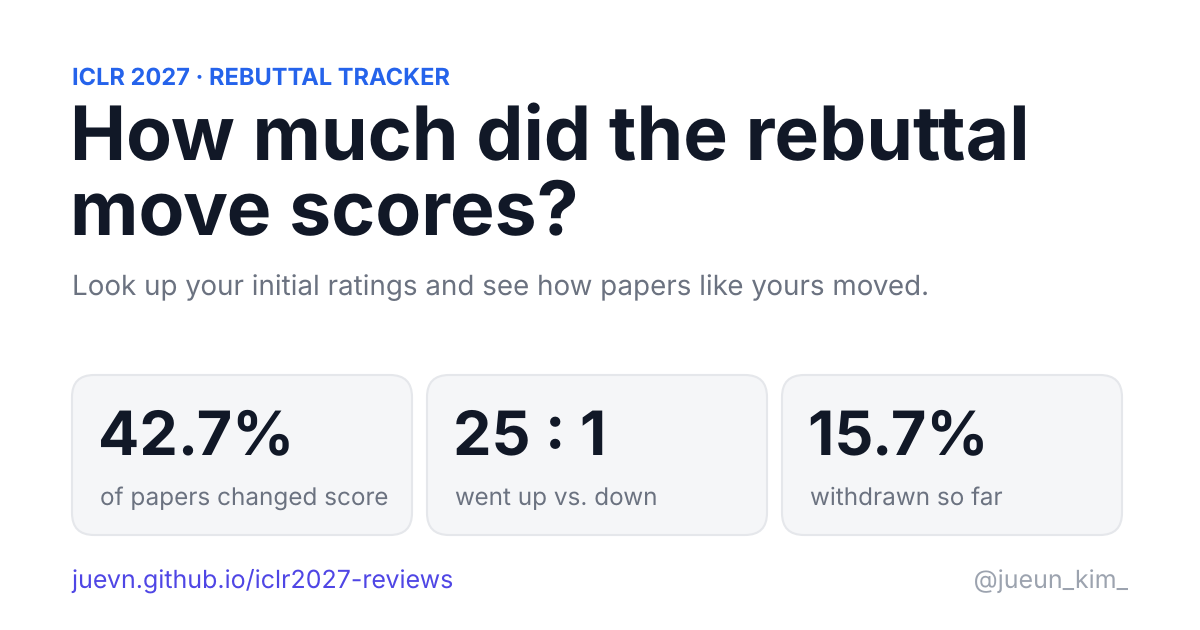
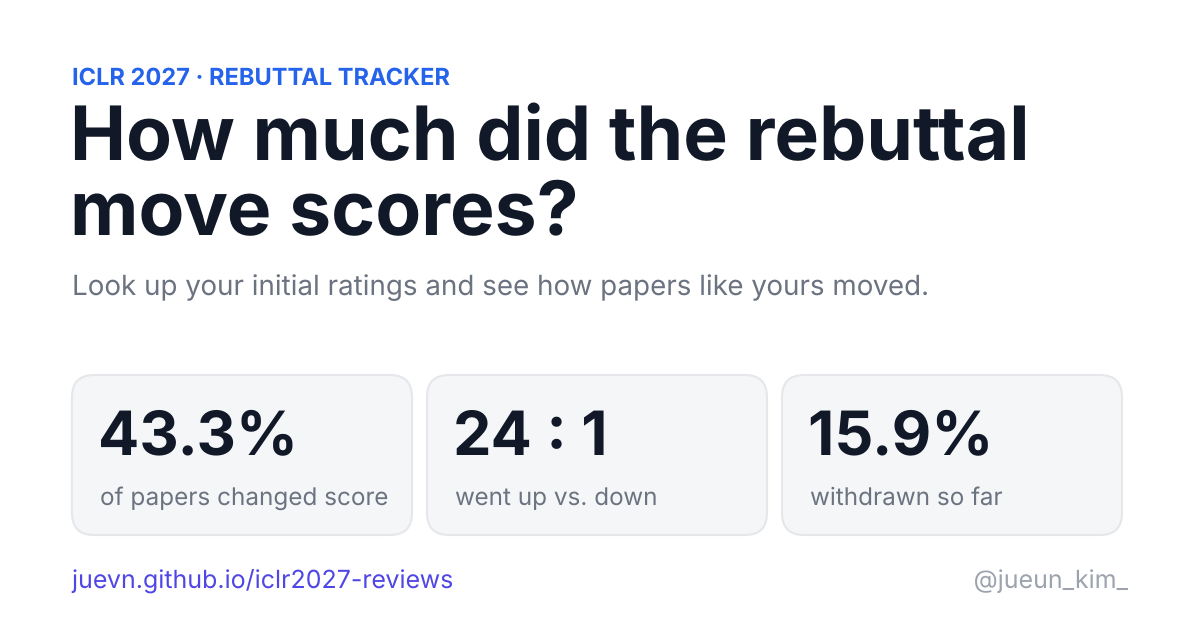
Update to 2026-11-24T04:02:14Z
Claude-Session: https://claude.ai/code/session_01TcxDZfia7MrzcEvY8LDLi9

diff --git a/data.js b/data.js
@@ -5,85 +5,85 @@ window.ICLR_DATA = {
   venue: "ICLR 2027",
   scale: [1,4],
   baseline: {"at":"2026-11-06T13:54:47Z","source":"https://shiqiangw.github.io/iclr-2027-scores/","by":"shiqiangw"},
-  updated: "2026-11-23T01:15:46Z",
+  updated: "2026-11-24T04:02:14Z",
   // All submissions, incl. withdrawn and desk-rejected (the base acceptance rates use).
   submissions: 42789,
   discussionEnds: "2026-11-18",
   decisions: "2026-12-16",
   combos: {
-    "1":[2,0,0,0,0,0,0,0],"2":[2,0,1,0,0,0,0,0],"11":[27,9,0,13,2,0,0,6],"21":[73,16,0,30,5,0,0,7],"22":[104,9,0,54,14,1,1,21],"31":[24,1,0,13,4,0,1,6],
-    "32":[75,0,1,32,12,1,0,11],"33":[20,0,0,14,3,0,0,3],"41":[1,0,0,1,1,0,0,1],"42":[5,0,0,3,1,0,0,1],"43":[2,0,0,1,0,0,0,0],"44":[1,0,0,1,0,0,0,0],
-    "111":[764,292,10,459,20,0,0,27],"211":[3062,1145,29,1878,209,23,0,272],"221":[6602,2140,71,4374,1192,55,1,1610],"222":[7463,1315,84,6043,2501,60,17,3540],"311":[651,166,12,469,93,30,2,84],"321":[3548,488,42,3005,1193,82,6,1554],
-    "322":[7667,194,118,7327,3691,123,22,5005],"331":[675,7,8,657,319,15,4,415],"332":[3733,10,48,3661,1964,76,4,2248],"333":[773,1,9,759,199,0,0,242],"411":[30,4,1,25,6,1,0,8],"421":[215,11,1,203,95,12,0,107],
-    "422":[418,2,2,414,213,14,8,288],"431":[79,0,1,76,31,1,0,49],"432":[515,1,7,505,289,5,2,325],"433":[198,0,2,193,53,1,0,61],"441":[6,0,0,6,4,0,1,5],"442":[40,0,0,39,24,0,1,27],
-    "443":[28,0,0,28,5,1,0,4],"444":[2,0,0,2,0,0,0,0],"1111":[29,8,1,20,1,0,0,1],"2111":[107,32,0,73,9,1,0,8],"2211":[245,88,2,155,18,0,0,26],"2221":[428,118,7,297,95,2,2,174],
-    "2222":[455,111,9,334,146,1,2,233],"3111":[17,7,0,10,1,0,1,1],"3211":[111,26,1,83,18,7,0,20],"3221":[336,53,3,280,133,10,0,190],"3222":[565,44,8,510,307,6,4,468],"3311":[28,5,0,23,8,0,1,10],
-    "3321":[133,5,2,126,70,1,1,114],"3322":[435,2,9,416,262,8,2,374],"3331":[27,0,0,27,10,2,0,14],"3332":[156,0,2,153,93,1,0,108],"3333":[17,0,0,17,3,1,0,3],"4111":[1,1,0,0,0,0,0,0],
-    "4211":[8,0,0,8,2,0,0,4],"4221":[25,3,1,21,11,1,0,20],"4222":[40,0,0,40,25,1,0,34],"4311":[1,0,0,1,0,0,0,0],"4321":[28,0,0,28,16,3,0,16],"4322":[51,0,1,50,28,1,0,37],
+    "1":[2,0,0,0,0,0,0,0],"2":[2,0,1,0,0,0,0,0],"11":[27,9,0,13,2,0,0,6],"21":[73,16,0,30,5,0,0,7],"22":[104,10,0,54,14,1,1,21],"31":[24,1,0,13,4,0,1,6],
+    "32":[75,0,1,32,13,1,0,12],"33":[20,0,0,14,3,0,0,3],"41":[1,0,0,1,1,0,0,1],"42":[5,0,0,3,1,0,0,1],"43":[2,0,0,1,0,0,0,0],"44":[1,0,0,1,0,0,0,0],
+    "111":[764,297,10,454,20,0,0,27],"211":[3062,1157,29,1866,215,23,0,278],"221":[6602,2162,71,4352,1215,58,1,1643],"222":[7463,1328,84,6030,2530,62,17,3598],"311":[651,167,12,468,93,33,2,83],"321":[3548,491,42,3002,1201,85,10,1572],
+    "322":[7667,197,118,7324,3736,136,22,5087],"331":[675,7,8,657,323,15,5,422],"332":[3733,10,48,3661,1990,74,4,2291],"333":[773,1,9,759,201,0,0,244],"411":[30,4,1,25,6,1,0,8],"421":[215,11,1,203,95,12,0,107],
+    "422":[418,2,2,414,216,16,8,289],"431":[79,0,1,76,31,1,0,50],"432":[515,1,7,505,292,6,2,330],"433":[198,0,2,193,54,1,0,62],"441":[6,0,0,6,4,0,1,5],"442":[40,0,0,39,24,0,1,27],
+    "443":[28,0,0,28,5,1,0,4],"444":[2,0,0,2,0,0,0,0],"1111":[29,8,1,20,1,0,0,1],"2111":[107,34,0,72,9,1,0,8],"2211":[245,89,2,154,19,0,0,27],"2221":[428,119,7,296,94,2,2,174],
+    "2222":[455,112,9,333,148,1,2,236],"3111":[17,7,0,10,1,0,1,1],"3211":[111,26,1,83,19,7,0,22],"3221":[336,54,3,279,135,12,0,191],"3222":[565,45,8,509,308,7,4,472],"3311":[28,5,0,23,8,0,1,10],
+    "3321":[133,5,2,126,69,2,2,112],"3322":[435,2,9,416,263,8,2,378],"3331":[27,0,0,27,10,2,0,15],"3332":[156,0,2,153,93,1,0,108],"3333":[17,0,0,17,3,1,0,3],"4111":[1,1,0,0,0,0,0,0],
+    "4211":[8,0,0,8,2,0,0,4],"4221":[25,3,1,21,11,1,0,20],"4222":[40,0,0,40,27,1,1,36],"4311":[1,0,0,1,0,0,0,0],"4321":[28,0,0,28,16,2,1,17],"4322":[51,0,1,50,29,1,0,38],
     "4331":[8,0,0,8,4,0,0,5],"4332":[38,0,0,38,23,1,1,21],"4333":[7,0,1,6,0,0,0,0],"4421":[1,0,0,1,1,0,0,2],"4422":[3,0,0,3,2,0,0,3],"4431":[2,0,0,2,2,0,0,4],
     "4432":[3,0,0,3,0,0,0,0],"4433":[4,0,0,4,0,0,0,0],"4443":[1,0,0,1,0,0,0,0],"11111":[4,1,0,3,0,0,0,0],"21111":[6,3,0,3,0,0,0,0],"22111":[14,4,0,10,4,0,0,4],
-    "22211":[22,9,1,12,1,0,0,1],"22221":[32,9,1,22,5,0,0,12],"22222":[19,3,0,16,9,0,0,15],"32111":[8,2,0,6,1,1,0,1],"32211":[21,5,0,16,6,1,2,6],"32221":[29,9,0,20,14,0,0,22],
-    "32222":[37,4,0,33,15,1,0,22],"33211":[2,0,0,2,0,1,0,-1],"33221":[27,0,1,26,15,0,0,36],"33222":[46,2,0,44,28,0,2,51],"33311":[2,0,0,2,2,0,0,2],"33321":[4,0,0,4,2,0,0,3],
+    "22211":[22,9,1,12,1,0,0,1],"22221":[32,9,1,22,6,0,0,13],"22222":[19,3,0,16,9,0,0,15],"32111":[8,2,0,6,1,1,0,1],"32211":[21,5,0,16,6,2,2,5],"32221":[29,9,0,20,14,0,0,22],
+    "32222":[37,4,0,33,15,1,0,22],"33211":[2,0,0,2,0,1,0,-1],"33221":[27,0,1,26,16,0,0,37],"33222":[46,2,0,44,28,0,2,51],"33311":[2,0,0,2,2,0,0,2],"33321":[4,0,0,4,2,0,0,3],
     "33322":[14,0,0,14,8,0,0,12],"33331":[2,0,0,2,1,0,0,1],"33332":[7,0,0,7,4,0,0,6],"33333":[2,0,0,2,0,0,0,0],"42221":[3,0,0,3,1,1,0,3],"42222":[1,0,0,1,0,0,0,0],
     "43211":[1,0,0,1,1,0,0,2],"43221":[1,0,0,1,1,0,0,2],"43222":[7,0,0,7,5,0,1,8],"43322":[2,0,0,2,1,0,0,1],"43331":[1,0,0,1,1,0,0,1],"43332":[4,0,0,4,3,0,0,6],
     "43333":[1,0,0,1,0,0,0,0],"44311":[1,0,0,1,0,0,0,0],"44322":[3,0,0,3,1,0,0,2],"44332":[3,0,0,3,3,0,0,4],"211111":[1,1,0,0,0,0,0,0],"221111":[1,1,0,0,0,0,0,0],
     "222211":[2,1,0,1,0,0,0,0],"222221":[2,1,0,1,1,0,0,1],"322211":[1,0,0,1,1,0,0,4],"322221":[1,0,0,1,0,0,0,0],"322222":[3,0,0,3,1,0,0,1],"332222":[2,0,1,1,0,0,0,0],
-    "333222":[1,0,0,1,1,0,0,1],"432211":[1,0,0,1,1,0,0,1],"433321":[1,0,0,1,1,0,0,1],"2222211":[1,0,0,1,0,0,0,0]
+    "333222":[1,0,0,1,1,0,0,1],"432211":[1,0,0,1,1,0,0,1],"433321":[1,0,0,1,0,0,0,0],"2222211":[1,0,0,1,0,0,0,0]
   },
   // Mean rating now -> number of papers still under review, for ranking a score against today's field.
-  currentMeans: {"n":33698,"h":{"1.00":508,"1.20":4,"1.25":70,"1.33":1759,"1.40":7,"1.50":202,"1.60":22,"1.67":3801,"1.71":1,"1.75":293,"1.80":33,"2.00":6896,"2.17":2,"2.20":45,"2.25":507,"2.33":6830,"2.40":48,"2.50":562,"2.60":41,"2.67":5576,"2.75":438,"2.80":29,"2.83":1,"3.00":4538,"3.20":6,"3.25":87,"3.33":1115,"3.40":5,"3.50":22,"3.60":2,"3.67":208,"3.75":2,"4.00":38}},
+  currentMeans: {"n":33631,"h":{"1.00":503,"1.20":4,"1.25":69,"1.33":1747,"1.40":7,"1.50":200,"1.60":22,"1.67":3761,"1.71":1,"1.75":294,"1.80":31,"2.00":6862,"2.17":2,"2.20":44,"2.25":505,"2.33":6767,"2.40":49,"2.50":558,"2.60":41,"2.67":5580,"2.75":440,"2.80":29,"3.00":4603,"3.20":6,"3.25":88,"3.33":1131,"3.40":5,"3.50":22,"3.60":2,"3.67":218,"3.75":2,"4.00":38}},
   // Review-level moves. exact: the pairing of initial and current ratings is unique.
   // inferred: more than one pairing fits, smallest-change one used.
-  reviews: {"analyzed":103078,"modified":42439,"changed":17537,"exact":14510,"inferred":3027,"initial":{"1":16404,"2":58845,"3":25988,"4":1841},"moves":{"2>3":12220,"1>2":1798,"3>4":1001,"2>4":919,"1>3":880,"2>1":345,"3>2":258,"1>4":47,"4>3":33,"3>1":25,"4>2":9,"4>1":2}},
+  reviews: {"analyzed":102877,"modified":42859,"changed":17845,"exact":14725,"inferred":3120,"initial":{"1":16331,"2":58726,"3":25979,"4":1841},"moves":{"2>3":12424,"1>2":1816,"3>4":1008,"2>4":937,"1>3":902,"2>1":356,"3>2":279,"1>4":49,"4>3":35,"3>1":27,"4>2":10,"4>1":2}},
   // dest: initial ratings -> current ratings of the papers that changed (same number of reviews), with counts.
   dest: {
     "11":{"31":1,"33":1},
     "21":{"22":3,"31":1,"42":1},
     "22":{"21":1,"31":1,"32":7,"33":6,"43":1},
     "31":{"22":1,"32":2,"33":1,"42":1},
-    "32":{"31":1,"33":12},
+    "32":{"31":1,"33":13},
     "33":{"43":3},
     "41":{"42":1},
     "42":{"43":1},
     "111":{"211":13,"221":6,"311":1},
-    "211":{"111":23,"221":119,"222":27,"311":22,"321":27,"322":8,"331":3,"332":1,"333":1,"422":1},
-    "221":{"111":1,"211":54,"222":488,"311":1,"321":348,"322":203,"331":50,"332":71,"333":14,"421":6,"422":4,"431":4,"432":1,"433":3},
-    "222":{"211":2,"221":58,"321":17,"322":1624,"331":7,"332":628,"333":185,"422":22,"431":1,"432":22,"433":12},
-    "311":{"111":4,"211":26,"221":2,"222":5,"321":65,"322":14,"331":2,"332":1,"333":1,"411":1,"421":4},
-    "321":{"211":3,"221":60,"222":6,"311":19,"322":514,"331":292,"332":234,"333":56,"421":36,"422":12,"431":20,"432":19,"433":9,"442":1},
-    "322":{"221":7,"222":65,"311":1,"321":50,"331":20,"332":2247,"333":971,"421":2,"422":138,"431":2,"432":199,"433":122,"441":1,"442":4,"443":6,"444":1},
-    "331":{"221":1,"311":2,"321":12,"322":4,"332":187,"333":59,"422":1,"431":32,"432":24,"433":10,"441":4,"443":1,"444":1},
-    "332":{"222":1,"321":7,"322":35,"331":33,"333":1417,"422":1,"431":3,"432":228,"433":260,"442":14,"443":41,"444":4},
-    "333":{"433":165,"443":25,"444":9},
+    "211":{"111":23,"221":123,"222":27,"311":24,"321":27,"322":8,"331":3,"332":1,"333":1,"422":1},
+    "221":{"111":1,"211":57,"222":493,"311":1,"321":361,"322":204,"331":47,"332":77,"333":15,"421":6,"422":4,"431":4,"432":1,"433":3},
+    "222":{"211":2,"221":60,"321":17,"322":1632,"331":7,"332":643,"333":192,"422":19,"431":1,"432":23,"433":13},
+    "311":{"111":4,"211":29,"221":2,"222":5,"321":64,"322":14,"331":2,"332":2,"333":1,"411":1,"421":4},
+    "321":{"211":3,"221":62,"222":10,"311":20,"322":512,"331":291,"332":242,"333":57,"421":36,"422":12,"431":21,"432":20,"433":9,"442":1},
+    "322":{"221":8,"222":72,"311":1,"321":55,"331":20,"332":2243,"333":1012,"421":2,"422":142,"431":2,"432":197,"433":128,"441":1,"442":4,"443":6,"444":1},
+    "331":{"221":1,"311":2,"321":12,"322":5,"332":189,"333":60,"422":1,"431":33,"432":24,"433":10,"441":3,"443":2,"444":1},
+    "332":{"222":1,"321":8,"322":33,"331":32,"333":1435,"422":1,"431":3,"432":225,"433":266,"442":14,"443":46,"444":4},
+    "333":{"433":167,"443":25,"444":9},
     "411":{"211":1,"421":4,"422":1,"433":1},
     "421":{"211":1,"221":2,"321":9,"332":1,"422":30,"431":40,"432":20,"433":2,"442":2},
-    "422":{"222":1,"322":5,"332":6,"333":1,"421":8,"431":2,"432":129,"433":73,"442":3,"443":7},
-    "431":{"331":1,"432":12,"433":14,"441":2,"442":1,"443":2},
-    "432":{"322":1,"333":1,"422":2,"431":2,"433":218,"441":1,"442":31,"443":38,"444":2},
-    "433":{"332":1,"443":43,"444":10},
+    "422":{"222":2,"322":6,"332":6,"333":1,"421":8,"431":2,"432":131,"433":74,"442":3,"443":7},
+    "431":{"331":1,"432":12,"433":14,"441":1,"442":2,"443":2},
+    "432":{"322":1,"333":1,"422":3,"431":2,"433":220,"441":1,"442":29,"443":41,"444":2},
+    "433":{"332":1,"443":44,"444":10},
     "441":{"432":1,"442":3,"443":1},
     "442":{"433":1,"443":21,"444":3},
     "443":{"433":1,"444":5},
     "1111":{"2111":1},
     "2111":{"1111":1,"2211":8,"3111":1},
-    "2211":{"2221":8,"2222":2,"3211":4,"3221":2,"3222":1,"3321":1},
-    "2221":{"2211":2,"2222":21,"3211":2,"3221":22,"3222":19,"3321":12,"3322":10,"3331":4,"3332":3,"3333":2,"4222":1,"4421":1},
-    "2222":{"2221":1,"3221":2,"3222":77,"3321":3,"3322":43,"3332":15,"3333":1,"4222":4,"4322":2,"4333":1},
+    "2211":{"2221":9,"2222":2,"3211":4,"3221":2,"3222":1,"3321":1},
+    "2221":{"2211":2,"2222":20,"3211":2,"3221":21,"3222":20,"3321":12,"3322":10,"3331":4,"3332":3,"3333":2,"4222":1,"4421":1},
+    "2222":{"2221":1,"3221":2,"3222":79,"3321":3,"3322":42,"3332":16,"3333":1,"4222":4,"4322":2,"4333":1},
     "3111":{"2211":1,"3211":1},
-    "3211":{"2211":7,"3221":9,"3222":1,"3311":1,"3321":4,"3322":2,"4211":1},
-    "3221":{"2111":1,"2221":8,"3211":1,"3222":43,"3321":40,"3322":24,"3331":7,"3332":9,"3333":3,"4221":1,"4222":1,"4321":2,"4331":2,"4432":1},
-    "3222":{"2222":4,"3221":2,"3321":4,"3322":170,"3332":71,"3333":30,"4222":11,"4322":15,"4332":9,"4333":1},
+    "3211":{"2211":7,"3221":10,"3222":1,"3311":1,"3321":3,"3322":3,"4211":1},
+    "3221":{"2111":1,"2221":10,"3211":1,"3222":45,"3321":39,"3322":25,"3331":7,"3332":9,"3333":3,"4221":1,"4222":1,"4321":2,"4331":2,"4432":1},
+    "3222":{"2222":5,"3221":2,"3321":4,"3322":168,"3332":73,"3333":31,"4222":11,"4322":15,"4332":9,"4333":1},
     "3311":{"3221":1,"3321":5,"4311":1,"4321":1,"4411":1},
-    "3321":{"3221":1,"3222":1,"3322":23,"3331":14,"3332":15,"3333":8,"4321":3,"4322":2,"4331":1,"4332":1,"4333":3},
-    "3322":{"3222":5,"3321":3,"3331":2,"3332":152,"3333":58,"4322":9,"4332":24,"4333":15,"4422":1,"4432":2,"4433":1},
-    "3331":{"3321":2,"3332":5,"3333":1,"4332":2,"4333":1,"4431":1},
+    "3321":{"3221":1,"3222":2,"3311":1,"3322":22,"3331":14,"3332":15,"3333":8,"4321":3,"4322":2,"4331":1,"4332":1,"4333":3},
+    "3322":{"3222":5,"3321":3,"3331":2,"3332":151,"3333":60,"4322":8,"4332":25,"4333":15,"4422":1,"4432":2,"4433":1},
+    "3331":{"3321":2,"3332":5,"3333":1,"4332":2,"4333":1,"4441":1},
     "3332":{"3322":1,"3333":69,"4332":11,"4333":9,"4432":1,"4433":3},
     "3333":{"3332":1,"4333":2,"4433":1},
     "4211":{"4311":1,"4322":1},
     "4221":{"3221":1,"4222":2,"4321":4,"4322":2,"4332":1,"4432":2},
-    "4222":{"2222":1,"4322":16,"4332":6,"4333":2,"4422":1},
-    "4321":{"3221":2,"3321":1,"4322":9,"4331":2,"4332":3,"4422":1,"4431":1},
-    "4322":{"3322":1,"3333":1,"4332":18,"4333":8,"4433":1},
+    "4222":{"2222":1,"3322":1,"4322":18,"4332":6,"4333":2,"4422":1},
+    "4321":{"3221":2,"3331":1,"4322":9,"4331":2,"4332":4,"4422":1},
+    "4322":{"3322":1,"3333":1,"4332":19,"4333":8,"4433":1},
     "4331":{"4332":1,"4431":2,"4432":1},
     "4332":{"3321":1,"3333":1,"4333":20,"4432":2,"4433":1},
     "4421":{"4432":1},
@@ -91,14 +91,14 @@ window.ICLR_DATA = {
     "4431":{"4432":1,"4443":1},
     "22111":{"22211":4},
     "22211":{"32211":1},
-    "22221":{"22222":1,"32221":1,"33222":1,"33321":1,"33322":1},
+    "22221":{"22222":1,"32221":2,"33222":1,"33321":1,"33322":1},
     "22222":{"32222":5,"33222":3,"33332":1},
     "32111":{"31111":1,"32221":1},
-    "32211":{"22221":2,"32111":1,"32221":4,"33211":1,"33221":1},
+    "32211":{"22211":1,"22221":2,"32111":1,"32221":4,"33211":1,"33221":1},
     "32221":{"32222":4,"33221":4,"33222":2,"33321":2,"33322":2},
     "32222":{"22221":1,"33222":9,"33322":4,"33332":1,"33333":1},
     "33211":{"33111":1},
-    "33221":{"33222":3,"33321":2,"33322":3,"33332":2,"33333":1,"43221":1,"43332":1,"43333":1,"44431":1},
+    "33221":{"33222":3,"33321":3,"33322":3,"33332":2,"33333":1,"43221":1,"43332":1,"43333":1,"44431":1},
     "33222":{"33321":2,"33322":13,"33332":6,"33333":4,"43322":3,"43333":2},
     "33311":{"33321":2},
     "33321":{"33322":1,"33332":1},
@@ -118,11 +118,10 @@ window.ICLR_DATA = {
     "322211":{"333222":1},
     "322222":{"332222":1},
     "333222":{"333322":1},
-    "432211":{"432221":1},
-    "433321":{"433322":1}
+    "432211":{"432221":1}
   },
   // moveTimes: changed reviews per move, by 3-hour UTC bucket of the review's last edit (a later text-only edit moves it).
-  moveTimes: {"2>3":{"2026-11-06T12":2,"2026-11-06T18":2,"2026-11-07T00":1,"2026-11-07T03":1,"2026-11-08T03":1,"2026-11-08T12":1,"2026-11-09T03":2,"2026-11-09T15":2,"2026-11-09T18":2,"2026-11-09T21":1,"2026-11-10T00":1,"2026-11-10T03":1,"2026-11-10T06":3,"2026-11-10T09":1,"2026-11-10T18":2,"2026-11-10T21":2,"2026-11-11T00":2,"2026-11-11T06":2,"2026-11-11T09":4,"2026-11-11T12":3,"2026-11-11T15":3,"2026-11-11T18":3,"2026-11-11T21":1,"2026-11-12T00":9,"2026-11-12T03":6,"2026-11-12T06":7,"2026-11-12T09":4,"2026-11-12T12":4,"2026-11-12T15":9,"2026-11-12T18":7,"2026-11-12T21":5,"2026-11-13T00":4,"2026-11-13T03":17,"2026-11-13T06":15,"2026-11-13T09":16,"2026-11-13T12":17,"2026-11-13T15":13,"2026-11-13T18":20,"2026-11-13T21":20,"2026-11-14T00":11,"2026-11-14T03":80,"2026-11-14T06":129,"2026-11-14T09":71,"2026-11-14T12":70,"2026-11-14T15":51,"2026-11-14T18":40,"2026-11-14T21":30,"2026-11-15T00":44,"2026-11-15T03":53,"2026-11-15T06":80,"2026-11-15T09":68,"2026-11-15T12":70,"2026-11-15T15":72,"2026-11-15T18":36,"2026-11-15T21":37,"2026-11-16T00":100,"2026-11-16T03":155,"2026-11-16T06":178,"2026-11-16T09":155,"2026-11-16T12":161,"2026-11-16T15":139,"2026-11-16T18":95,"2026-11-16T21":77,"2026-11-17T00":141,"2026-11-17T03":208,"2026-11-17T06":812,"2026-11-17T09":404,"2026-11-17T12":388,"2026-11-17T15":367,"2026-11-17T18":239,"2026-11-17T21":182,"2026-11-18T00":312,"2026-11-18T03":472,"2026-11-18T06":534,"2026-11-18T09":441,"2026-11-18T12":411,"2026-11-18T15":391,"2026-11-18T18":266,"2026-11-18T21":217,"2026-11-19T00":379,"2026-11-19T03":716,"2026-11-19T06":787,"2026-11-19T09":784,"2026-11-19T12":232,"2026-11-19T15":108,"2026-11-19T18":54,"2026-11-19T21":27,"2026-11-20T00":53,"2026-11-20T03":55,"2026-11-20T06":293,"2026-11-20T09":176,"2026-11-20T12":78,"2026-11-20T15":79,"2026-11-20T18":25,"2026-11-20T21":28,"2026-11-21T00":28,"2026-11-21T03":36,"2026-11-21T06":19,"2026-11-21T09":25,"2026-11-21T12":24,"2026-11-21T15":103,"2026-11-21T18":10,"2026-11-21T21":9,"2026-11-22T00":14,"2026-11-22T03":14,"2026-11-22T06":6,"2026-11-22T09":11,"2026-11-22T12":11,"2026-11-22T15":13,"2026-11-22T18":13,"2026-11-22T21":4,"2026-11-23T00":3},"1>2":{"2026-11-06T18":1,"2026-11-07T18":1,"2026-11-08T00":1,"2026-11-09T06":1,"2026-11-10T00":1,"2026-11-10T12":2,"2026-11-10T15":1,"2026-11-10T18":1,"2026-11-11T03":1,"2026-11-11T18":1,"2026-11-12T03":2,"2026-11-12T12":1,"2026-11-12T21":2,"2026-11-13T03":2,"2026-11-13T06":5,"2026-11-13T09":4,"2026-11-13T12":4,"2026-11-13T15":3,"2026-11-13T18":3,"2026-11-13T21":4,"2026-11-14T00":1,"2026-11-14T03":15,"2026-11-14T06":20,"2026-11-14T09":22,"2026-11-14T12":12,"2026-11-14T15":10,"2026-11-14T18":12,"2026-11-14T21":3,"2026-11-15T00":6,"2026-11-15T03":11,"2026-11-15T06":7,"2026-11-15T09":13,"2026-11-15T12":8,"2026-11-15T15":5,"2026-11-15T18":10,"2026-11-15T21":6,"2026-11-16T00":15,"2026-11-16T03":10,"2026-11-16T06":19,"2026-11-16T09":21,"2026-11-16T12":23,"2026-11-16T15":23,"2026-11-16T18":19,"2026-11-16T21":16,"2026-11-17T00":11,"2026-11-17T03":23,"2026-11-17T06":126,"2026-11-17T09":52,"2026-11-17T12":53,"2026-11-17T15":56,"2026-11-17T18":50,"2026-11-17T21":36,"2026-11-18T00":45,"2026-11-18T03":48,"2026-11-18T06":59,"2026-11-18T09":63,"2026-11-18T12":52,"2026-11-18T15":65,"2026-11-18T18":45,"2026-11-18T21":37,"2026-11-19T00":62,"2026-11-19T03":100,"2026-11-19T06":121,"2026-11-19T09":118,"2026-11-19T12":38,"2026-11-19T15":12,"2026-11-19T18":12,"2026-11-19T21":3,"2026-11-20T00":5,"2026-11-20T03":8,"2026-11-20T06":38,"2026-11-20T09":25,"2026-11-20T12":13,"2026-11-20T15":9,"2026-11-20T18":7,"2026-11-20T21":9,"2026-11-21T00":5,"2026-11-21T06":4,"2026-11-21T09":5,"2026-11-21T15":10,"2026-11-21T21":2,"2026-11-22T00":6,"2026-11-22T03":3,"2026-11-22T06":1,"2026-11-22T09":2,"2026-11-22T12":3,"2026-11-22T15":3,"2026-11-22T18":2,"2026-11-22T21":2,"2026-11-23T00":1},"3>4":{"2026-11-06T15":1,"2026-11-07T21":1,"2026-11-08T21":1,"2026-11-09T06":1,"2026-11-10T03":1,"2026-11-10T06":1,"2026-11-10T09":1,"2026-11-10T12":2,"2026-11-11T12":1,"2026-11-11T15":1,"2026-11-11T21":2,"2026-11-12T12":1,"2026-11-12T15":1,"2026-11-12T18":2,"2026-11-12T21":2,"2026-11-13T00":1,"2026-11-13T03":2,"2026-11-13T06":5,"2026-11-13T09":6,"2026-11-13T12":3,"2026-11-13T15":1,"2026-11-13T18":3,"2026-11-13T21":2,"2026-11-14T00":2,"2026-11-14T03":7,"2026-11-14T06":9,"2026-11-14T09":2,"2026-11-14T12":10,"2026-11-14T15":5,"2026-11-14T18":7,"2026-11-15T00":4,"2026-11-15T03":6,"2026-11-15T06":8,"2026-11-15T09":10,"2026-11-15T12":14,"2026-11-15T15":5,"2026-11-15T18":7,"2026-11-15T21":3,"2026-11-16T00":11,"2026-11-16T03":18,"2026-11-16T06":20,"2026-11-16T09":15,"2026-11-16T12":16,"2026-11-16T15":14,"2026-11-16T18":19,"2026-11-16T21":8,"2026-11-17T00":17,"2026-11-17T03":16,"2026-11-17T06":53,"2026-11-17T09":38,"2026-11-17T12":41,"2026-11-17T15":30,"2026-11-17T18":27,"2026-11-17T21":21,"2026-11-18T00":20,"2026-11-18T03":34,"2026-11-18T06":33,"2026-11-18T09":34,"2026-11-18T12":36,"2026-11-18T15":27,"2026-11-18T18":25,"2026-11-18T21":18,"2026-11-19T00":33,"2026-11-19T03":50,"2026-11-19T06":47,"2026-11-19T09":50,"2026-11-19T12":17,"2026-11-19T15":7,"2026-11-19T18":7,"2026-11-19T21":2,"2026-11-20T00":5,"2026-11-20T03":4,"2026-11-20T06":13,"2026-11-20T09":8,"2026-11-20T12":2,"2026-11-20T15":4,"2026-11-20T18":1,"2026-11-20T21":1,"2026-11-21T00":1,"2026-11-21T03":3,"2026-11-21T09":1,"2026-11-21T15":4,"2026-11-22T00":2,"2026-11-22T03":1,"2026-11-22T09":2,"2026-11-22T15":1,"2026-11-22T18":3},"2>4":{"2026-11-07T03":1,"2026-11-08T12":1,"2026-11-08T15":1,"2026-11-09T09":2,"2026-11-09T12":1,"2026-11-10T09":2,"2026-11-10T18":1,"2026-11-11T09":1,"2026-11-11T12":1,"2026-11-12T03":2,"2026-11-12T06":1,"2026-11-12T12":3,"2026-11-12T15":3,"2026-11-12T18":1,"2026-11-12T21":1,"2026-11-13T03":5,"2026-11-13T06":2,"2026-11-13T09":3,"2026-11-13T12":3,"2026-11-13T15":5,"2026-11-13T21":5,"2026-11-14T00":4,"2026-11-14T03":10,"2026-11-14T06":11,"2026-11-14T09":5,"2026-11-14T12":9,"2026-11-14T15":12,"2026-11-14T18":3,"2026-11-14T21":3,"2026-11-15T00":5,"2026-11-15T03":8,"2026-11-15T06":9,"2026-11-15T09":8,"2026-11-15T12":7,"2026-11-15T15":5,"2026-11-15T18":5,"2026-11-15T21":1,"2026-11-16T00":12,"2026-11-16T03":12,"2026-11-16T06":16,"2026-11-16T09":18,"2026-11-16T12":14,"2026-11-16T15":13,"2026-11-16T18":12,"2026-11-16T21":10,"2026-11-17T00":19,"2026-11-17T03":18,"2026-11-17T06":56,"2026-11-17T09":31,"2026-11-17T12":32,"2026-11-17T15":24,"2026-11-17T18":19,"2026-11-17T21":24,"2026-11-18T00":26,"2026-11-18T03":23,"2026-11-18T06":37,"2026-11-18T09":33,"2026-11-18T12":26,"2026-11-18T15":39,"2026-11-18T18":16,"2026-11-18T21":11,"2026-11-19T00":28,"2026-11-19T03":33,"2026-11-19T06":41,"2026-11-19T09":46,"2026-11-19T12":9,"2026-11-19T15":6,"2026-11-19T18":6,"2026-11-19T21":3,"2026-11-20T00":2,"2026-11-20T03":2,"2026-11-20T06":11,"2026-11-20T09":6,"2026-11-20T12":2,"2026-11-20T15":7,"2026-11-20T18":2,"2026-11-21T00":1,"2026-11-21T03":2,"2026-11-21T06":2,"2026-11-21T09":2,"2026-11-21T15":8,"2026-11-22T00":2,"2026-11-22T06":1,"2026-11-22T09":1,"2026-11-22T12":1,"2026-11-22T21":4},"1>3":{"2026-11-12T06":2,"2026-11-12T09":2,"2026-11-12T15":2,"2026-11-12T18":2,"2026-11-12T21":1,"2026-11-13T00":1,"2026-11-13T03":1,"2026-11-13T06":1,"2026-11-13T09":1,"2026-11-13T12":1,"2026-11-13T15":1,"2026-11-13T18":3,"2026-11-13T21":4,"2026-11-14T03":9,"2026-11-14T06":10,"2026-11-14T09":7,"2026-11-14T15":6,"2026-11-14T18":7,"2026-11-14T21":1,"2026-11-15T00":7,"2026-11-15T03":3,"2026-11-15T06":3,"2026-11-15T09":3,"2026-11-15T12":7,"2026-11-15T15":5,"2026-11-15T18":6,"2026-11-15T21":11,"2026-11-16T00":4,"2026-11-16T03":12,"2026-11-16T06":11,"2026-11-16T09":4,"2026-11-16T12":12,"2026-11-16T15":9,"2026-11-16T18":9,"2026-11-16T21":4,"2026-11-17T00":5,"2026-11-17T03":19,"2026-11-17T06":44,"2026-11-17T09":23,"2026-11-17T12":29,"2026-11-17T15":21,"2026-11-17T18":18,"2026-11-17T21":14,"2026-11-18T00":28,"2026-11-18T03":34,"2026-11-18T06":41,"2026-11-18T09":32,"2026-11-18T12":28,"2026-11-18T15":34,"2026-11-18T18":24,"2026-11-18T21":27,"2026-11-19T00":29,"2026-11-19T03":53,"2026-11-19T06":54,"2026-11-19T09":43,"2026-11-19T12":23,"2026-11-19T15":5,"2026-11-19T18":4,"2026-11-19T21":7,"2026-11-20T00":4,"2026-11-20T03":4,"2026-11-20T06":12,"2026-11-20T09":12,"2026-11-20T12":4,"2026-11-20T15":5,"2026-11-20T18":3,"2026-11-20T21":1,"2026-11-21T00":4,"2026-11-21T06":3,"2026-11-21T09":1,"2026-11-21T12":2,"2026-11-21T15":4,"2026-11-21T21":1,"2026-11-22T03":1,"2026-11-22T06":2,"2026-11-22T09":1,"2026-11-22T12":1,"2026-11-22T15":1,"2026-11-22T18":2,"2026-11-23T00":1},"2>1":{"2026-11-06T12":2,"2026-11-06T15":2,"2026-11-06T18":1,"2026-11-07T00":1,"2026-11-07T03":2,"2026-11-07T06":1,"2026-11-08T15":1,"2026-11-09T09":1,"2026-11-10T18":1,"2026-11-11T09":1,"2026-11-12T00":1,"2026-11-12T03":2,"2026-11-12T12":1,"2026-11-13T06":2,"2026-11-13T09":1,"2026-11-13T15":1,"2026-11-13T21":3,"2026-11-14T03":5,"2026-11-14T06":4,"2026-11-14T09":4,"2026-11-14T12":1,"2026-11-14T15":2,"2026-11-14T18":2,"2026-11-15T00":1,"2026-11-15T06":2,"2026-11-15T09":3,"2026-11-15T12":2,"2026-11-15T15":3,"2026-11-15T18":4,"2026-11-16T00":2,"2026-11-16T03":4,"2026-11-16T06":6,"2026-11-16T09":1,"2026-11-16T12":4,"2026-11-16T15":1,"2026-11-16T18":6,"2026-11-16T21":1,"2026-11-17T00":6,"2026-11-17T03":2,"2026-11-17T06":20,"2026-11-17T09":5,"2026-11-17T12":7,"2026-11-17T15":12,"2026-11-17T18":4,"2026-11-17T21":5,"2026-11-18T00":4,"2026-11-18T03":11,"2026-11-18T06":11,"2026-11-18T09":10,"2026-11-18T12":9,"2026-11-18T15":10,"2026-11-18T18":8,"2026-11-18T21":5,"2026-11-19T00":7,"2026-11-19T03":17,"2026-11-19T06":20,"2026-11-19T09":28,"2026-11-19T12":10,"2026-11-19T15":9,"2026-11-19T18":9,"2026-11-19T21":1,"2026-11-20T00":2,"2026-11-20T03":5,"2026-11-20T06":6,"2026-11-20T09":4,"2026-11-20T12":2,"2026-11-20T18":2,"2026-11-20T21":2,"2026-11-21T00":1,"2026-11-21T06":1,"2026-11-21T12":1,"2026-11-21T15":1,"2026-11-22T00":3,"2026-11-22T06":2,"2026-11-22T09":1},"3>2":{"2026-11-06T12":1,"2026-11-06T18":1,"2026-11-07T03":1,"2026-11-08T03":1,"2026-11-08T15":1,"2026-11-09T03":1,"2026-11-09T15":1,"2026-11-11T12":1,"2026-11-13T03":1,"2026-11-14T03":2,"2026-11-14T06":2,"2026-11-14T09":4,"2026-11-14T12":2,"2026-11-14T15":1,"2026-11-14T18":3,"2026-11-15T00":1,"2026-11-15T03":2,"2026-11-15T06":1,"2026-11-15T09":1,"2026-11-15T12":1,"2026-11-15T15":1,"2026-11-15T18":2,"2026-11-16T00":3,"2026-11-16T03":5,"2026-11-16T06":4,"2026-11-16T09":2,"2026-11-16T12":2,"2026-11-16T15":3,"2026-11-16T18":1,"2026-11-16T21":3,"2026-11-17T00":4,"2026-11-17T03":7,"2026-11-17T06":18,"2026-11-17T09":7,"2026-11-17T12":5,"2026-11-17T15":11,"2026-11-17T18":6,"2026-11-17T21":5,"2026-11-18T00":8,"2026-11-18T03":4,"2026-11-18T06":6,"2026-11-18T09":7,"2026-11-18T12":9,"2026-11-18T15":8,"2026-11-18T18":2,"2026-11-19T00":1,"2026-11-19T03":10,"2026-11-19T06":12,"2026-11-19T09":17,"2026-11-19T12":8,"2026-11-19T15":2,"2026-11-19T18":2,"2026-11-20T00":1,"2026-11-20T06":15,"2026-11-20T09":8,"2026-11-20T12":5,"2026-11-20T15":3,"2026-11-20T18":1,"2026-11-21T00":2,"2026-11-21T03":2,"2026-11-21T06":1,"2026-11-21T15":5,"2026-11-22T21":1},"1>4":{"2026-11-13T09":1,"2026-11-13T18":1,"2026-11-14T06":2,"2026-11-15T12":2,"2026-11-16T09":1,"2026-11-16T15":2,"2026-11-16T18":1,"2026-11-16T21":2,"2026-11-17T00":1,"2026-11-17T03":1,"2026-11-17T06":3,"2026-11-17T09":1,"2026-11-17T15":2,"2026-11-17T18":3,"2026-11-17T21":1,"2026-11-18T03":2,"2026-11-18T06":1,"2026-11-18T09":1,"2026-11-18T15":3,"2026-11-18T18":1,"2026-11-18T21":1,"2026-11-19T00":1,"2026-11-19T06":5,"2026-11-19T09":4,"2026-11-20T06":1,"2026-11-20T09":3},"4>3":{"2026-11-07T15":1,"2026-11-11T06":1,"2026-11-13T09":1,"2026-11-16T00":1,"2026-11-16T06":1,"2026-11-17T00":1,"2026-11-17T06":1,"2026-11-17T12":1,"2026-11-17T18":1,"2026-11-18T00":2,"2026-11-18T03":1,"2026-11-18T06":3,"2026-11-18T09":2,"2026-11-18T12":2,"2026-11-18T21":1,"2026-11-19T00":1,"2026-11-19T03":2,"2026-11-19T06":2,"2026-11-19T09":2,"2026-11-19T12":2,"2026-11-19T18":1,"2026-11-20T06":1,"2026-11-20T12":1,"2026-11-21T00":1},"3>1":{"2026-11-09T18":1,"2026-11-14T03":1,"2026-11-15T09":1,"2026-11-15T21":1,"2026-11-16T00":1,"2026-11-16T03":1,"2026-11-16T06":2,"2026-11-16T15":1,"2026-11-16T18":1,"2026-11-17T06":2,"2026-11-17T15":1,"2026-11-18T06":2,"2026-11-18T09":1,"2026-11-18T15":1,"2026-11-19T00":1,"2026-11-19T03":1,"2026-11-19T06":1,"2026-11-19T09":2,"2026-11-19T12":1,"2026-11-19T21":1,"2026-11-21T09":1},"4>2":{"2026-11-16T12":1,"2026-11-17T00":1,"2026-11-17T06":1,"2026-11-17T18":1,"2026-11-18T18":1,"2026-11-19T03":1,"2026-11-19T09":1,"2026-11-20T06":1,"2026-11-22T09":1},"4>1":{"2026-11-14T06":1,"2026-11-19T03":1}},
+  moveTimes: {"2>3":{"2026-11-06T12":2,"2026-11-06T18":2,"2026-11-07T00":1,"2026-11-07T03":1,"2026-11-08T03":1,"2026-11-08T12":1,"2026-11-09T03":2,"2026-11-09T15":2,"2026-11-09T18":2,"2026-11-09T21":1,"2026-11-10T00":1,"2026-11-10T03":1,"2026-11-10T06":3,"2026-11-10T09":1,"2026-11-10T18":2,"2026-11-10T21":2,"2026-11-11T00":2,"2026-11-11T06":2,"2026-11-11T09":4,"2026-11-11T12":3,"2026-11-11T15":3,"2026-11-11T18":3,"2026-11-11T21":1,"2026-11-12T00":9,"2026-11-12T03":6,"2026-11-12T06":7,"2026-11-12T09":4,"2026-11-12T12":4,"2026-11-12T15":9,"2026-11-12T18":7,"2026-11-12T21":5,"2026-11-13T00":4,"2026-11-13T03":17,"2026-11-13T06":14,"2026-11-13T09":17,"2026-11-13T12":16,"2026-11-13T15":13,"2026-11-13T18":20,"2026-11-13T21":20,"2026-11-14T00":11,"2026-11-14T03":79,"2026-11-14T06":128,"2026-11-14T09":70,"2026-11-14T12":68,"2026-11-14T15":50,"2026-11-14T18":39,"2026-11-14T21":29,"2026-11-15T00":44,"2026-11-15T03":53,"2026-11-15T06":80,"2026-11-15T09":68,"2026-11-15T12":70,"2026-11-15T15":72,"2026-11-15T18":35,"2026-11-15T21":37,"2026-11-16T00":101,"2026-11-16T03":156,"2026-11-16T06":178,"2026-11-16T09":155,"2026-11-16T12":161,"2026-11-16T15":140,"2026-11-16T18":93,"2026-11-16T21":77,"2026-11-17T00":142,"2026-11-17T03":206,"2026-11-17T06":812,"2026-11-17T09":403,"2026-11-17T12":388,"2026-11-17T15":368,"2026-11-17T18":238,"2026-11-17T21":183,"2026-11-18T00":313,"2026-11-18T03":473,"2026-11-18T06":534,"2026-11-18T09":439,"2026-11-18T12":412,"2026-11-18T15":390,"2026-11-18T18":263,"2026-11-18T21":214,"2026-11-19T00":380,"2026-11-19T03":714,"2026-11-19T06":785,"2026-11-19T09":785,"2026-11-19T12":232,"2026-11-19T15":108,"2026-11-19T18":54,"2026-11-19T21":27,"2026-11-20T00":53,"2026-11-20T03":54,"2026-11-20T06":292,"2026-11-20T09":177,"2026-11-20T12":78,"2026-11-20T15":79,"2026-11-20T18":25,"2026-11-20T21":28,"2026-11-21T00":28,"2026-11-21T03":35,"2026-11-21T06":19,"2026-11-21T09":25,"2026-11-21T12":24,"2026-11-21T15":104,"2026-11-21T18":10,"2026-11-21T21":9,"2026-11-22T00":14,"2026-11-22T03":14,"2026-11-22T06":6,"2026-11-22T09":10,"2026-11-22T12":11,"2026-11-22T15":11,"2026-11-22T18":13,"2026-11-22T21":4,"2026-11-23T00":14,"2026-11-23T03":15,"2026-11-23T06":23,"2026-11-23T09":21,"2026-11-23T12":23,"2026-11-23T15":36,"2026-11-23T18":16,"2026-11-23T21":14,"2026-11-24T00":46,"2026-11-24T03":21},"1>2":{"2026-11-06T18":1,"2026-11-07T18":1,"2026-11-08T00":1,"2026-11-09T06":1,"2026-11-10T00":1,"2026-11-10T12":2,"2026-11-10T15":1,"2026-11-10T18":1,"2026-11-11T03":1,"2026-11-11T18":1,"2026-11-12T03":2,"2026-11-12T12":1,"2026-11-12T21":2,"2026-11-13T03":2,"2026-11-13T06":5,"2026-11-13T09":4,"2026-11-13T12":4,"2026-11-13T15":3,"2026-11-13T18":3,"2026-11-13T21":4,"2026-11-14T00":1,"2026-11-14T03":15,"2026-11-14T06":20,"2026-11-14T09":21,"2026-11-14T12":12,"2026-11-14T15":10,"2026-11-14T18":12,"2026-11-14T21":3,"2026-11-15T00":6,"2026-11-15T03":10,"2026-11-15T06":6,"2026-11-15T09":13,"2026-11-15T12":8,"2026-11-15T15":5,"2026-11-15T18":10,"2026-11-15T21":6,"2026-11-16T00":15,"2026-11-16T03":10,"2026-11-16T06":18,"2026-11-16T09":21,"2026-11-16T12":23,"2026-11-16T15":22,"2026-11-16T18":19,"2026-11-16T21":16,"2026-11-17T00":11,"2026-11-17T03":23,"2026-11-17T06":125,"2026-11-17T09":53,"2026-11-17T12":53,"2026-11-17T15":56,"2026-11-17T18":49,"2026-11-17T21":36,"2026-11-18T00":45,"2026-11-18T03":48,"2026-11-18T06":58,"2026-11-18T09":62,"2026-11-18T12":51,"2026-11-18T15":65,"2026-11-18T18":45,"2026-11-18T21":37,"2026-11-19T00":62,"2026-11-19T03":98,"2026-11-19T06":120,"2026-11-19T09":117,"2026-11-19T12":38,"2026-11-19T15":11,"2026-11-19T18":12,"2026-11-19T21":3,"2026-11-20T00":5,"2026-11-20T03":8,"2026-11-20T06":40,"2026-11-20T09":25,"2026-11-20T12":13,"2026-11-20T15":9,"2026-11-20T18":7,"2026-11-20T21":9,"2026-11-21T00":5,"2026-11-21T06":4,"2026-11-21T09":5,"2026-11-21T15":10,"2026-11-21T21":2,"2026-11-22T00":6,"2026-11-22T03":3,"2026-11-22T06":1,"2026-11-22T09":2,"2026-11-22T12":3,"2026-11-22T15":3,"2026-11-22T18":2,"2026-11-22T21":2,"2026-11-23T00":3,"2026-11-23T06":3,"2026-11-23T09":5,"2026-11-23T12":2,"2026-11-23T15":4,"2026-11-23T18":4,"2026-11-23T21":3,"2026-11-24T00":5,"2026-11-24T03":2},"3>4":{"2026-11-06T15":1,"2026-11-07T21":1,"2026-11-08T21":1,"2026-11-09T06":1,"2026-11-10T03":1,"2026-11-10T06":1,"2026-11-10T09":1,"2026-11-10T12":2,"2026-11-11T12":1,"2026-11-11T15":1,"2026-11-11T21":2,"2026-11-12T12":1,"2026-11-12T15":1,"2026-11-12T18":2,"2026-11-12T21":2,"2026-11-13T00":1,"2026-11-13T03":2,"2026-11-13T06":5,"2026-11-13T09":6,"2026-11-13T12":3,"2026-11-13T15":1,"2026-11-13T18":3,"2026-11-13T21":2,"2026-11-14T00":2,"2026-11-14T03":7,"2026-11-14T06":9,"2026-11-14T09":2,"2026-11-14T12":9,"2026-11-14T15":5,"2026-11-14T18":7,"2026-11-15T00":4,"2026-11-15T03":7,"2026-11-15T06":8,"2026-11-15T09":10,"2026-11-15T12":14,"2026-11-15T15":5,"2026-11-15T18":7,"2026-11-15T21":3,"2026-11-16T00":11,"2026-11-16T03":18,"2026-11-16T06":20,"2026-11-16T09":15,"2026-11-16T12":16,"2026-11-16T15":13,"2026-11-16T18":18,"2026-11-16T21":8,"2026-11-17T00":17,"2026-11-17T03":16,"2026-11-17T06":51,"2026-11-17T09":37,"2026-11-17T12":40,"2026-11-17T15":30,"2026-11-17T18":27,"2026-11-17T21":20,"2026-11-18T00":20,"2026-11-18T03":34,"2026-11-18T06":33,"2026-11-18T09":35,"2026-11-18T12":34,"2026-11-18T15":26,"2026-11-18T18":25,"2026-11-18T21":19,"2026-11-19T00":32,"2026-11-19T03":50,"2026-11-19T06":49,"2026-11-19T09":48,"2026-11-19T12":17,"2026-11-19T15":7,"2026-11-19T18":5,"2026-11-19T21":2,"2026-11-20T00":5,"2026-11-20T03":3,"2026-11-20T06":13,"2026-11-20T09":8,"2026-11-20T12":2,"2026-11-20T15":4,"2026-11-20T18":1,"2026-11-20T21":1,"2026-11-21T00":1,"2026-11-21T03":3,"2026-11-21T09":1,"2026-11-21T15":4,"2026-11-22T00":2,"2026-11-22T09":2,"2026-11-22T15":1,"2026-11-22T18":3,"2026-11-23T00":2,"2026-11-23T06":2,"2026-11-23T09":1,"2026-11-23T12":2,"2026-11-23T15":5,"2026-11-23T18":4,"2026-11-23T21":3,"2026-11-24T00":1},"2>4":{"2026-11-07T03":1,"2026-11-08T12":1,"2026-11-08T15":1,"2026-11-09T09":2,"2026-11-09T12":1,"2026-11-10T09":2,"2026-11-10T18":1,"2026-11-11T09":1,"2026-11-11T12":1,"2026-11-12T03":2,"2026-11-12T06":1,"2026-11-12T12":3,"2026-11-12T15":3,"2026-11-12T18":1,"2026-11-12T21":1,"2026-11-13T03":5,"2026-11-13T06":2,"2026-11-13T09":2,"2026-11-13T12":3,"2026-11-13T15":5,"2026-11-13T21":5,"2026-11-14T00":4,"2026-11-14T03":10,"2026-11-14T06":11,"2026-11-14T09":5,"2026-11-14T12":10,"2026-11-14T15":12,"2026-11-14T18":3,"2026-11-14T21":3,"2026-11-15T00":5,"2026-11-15T03":7,"2026-11-15T06":9,"2026-11-15T09":8,"2026-11-15T12":7,"2026-11-15T15":5,"2026-11-15T18":5,"2026-11-15T21":1,"2026-11-16T00":12,"2026-11-16T03":12,"2026-11-16T06":16,"2026-11-16T09":18,"2026-11-16T12":14,"2026-11-16T15":14,"2026-11-16T18":12,"2026-11-16T21":10,"2026-11-17T00":18,"2026-11-17T03":18,"2026-11-17T06":57,"2026-11-17T09":32,"2026-11-17T12":33,"2026-11-17T15":24,"2026-11-17T18":19,"2026-11-17T21":25,"2026-11-18T00":26,"2026-11-18T03":22,"2026-11-18T06":37,"2026-11-18T09":32,"2026-11-18T12":28,"2026-11-18T15":40,"2026-11-18T18":16,"2026-11-18T21":11,"2026-11-19T00":29,"2026-11-19T03":33,"2026-11-19T06":39,"2026-11-19T09":47,"2026-11-19T12":9,"2026-11-19T15":6,"2026-11-19T18":8,"2026-11-19T21":3,"2026-11-20T00":2,"2026-11-20T03":3,"2026-11-20T06":11,"2026-11-20T09":6,"2026-11-20T12":2,"2026-11-20T15":7,"2026-11-20T18":2,"2026-11-21T00":1,"2026-11-21T03":2,"2026-11-21T06":2,"2026-11-21T09":2,"2026-11-21T15":8,"2026-11-22T00":2,"2026-11-22T06":1,"2026-11-22T09":1,"2026-11-22T12":1,"2026-11-22T21":4,"2026-11-23T03":1,"2026-11-23T06":1,"2026-11-23T09":1,"2026-11-23T15":4,"2026-11-23T18":2,"2026-11-24T00":1,"2026-11-24T03":1},"1>3":{"2026-11-12T06":2,"2026-11-12T09":2,"2026-11-12T15":2,"2026-11-12T18":2,"2026-11-12T21":1,"2026-11-13T00":1,"2026-11-13T03":1,"2026-11-13T06":1,"2026-11-13T09":1,"2026-11-13T12":1,"2026-11-13T15":1,"2026-11-13T18":3,"2026-11-13T21":4,"2026-11-14T03":9,"2026-11-14T06":11,"2026-11-14T09":7,"2026-11-14T15":6,"2026-11-14T18":7,"2026-11-14T21":1,"2026-11-15T00":7,"2026-11-15T03":3,"2026-11-15T06":3,"2026-11-15T09":3,"2026-11-15T12":7,"2026-11-15T15":5,"2026-11-15T18":6,"2026-11-15T21":10,"2026-11-16T00":4,"2026-11-16T03":12,"2026-11-16T06":11,"2026-11-16T09":4,"2026-11-16T12":12,"2026-11-16T15":9,"2026-11-16T18":9,"2026-11-16T21":4,"2026-11-17T00":4,"2026-11-17T03":19,"2026-11-17T06":45,"2026-11-17T09":23,"2026-11-17T12":29,"2026-11-17T15":21,"2026-11-17T18":18,"2026-11-17T21":13,"2026-11-18T00":28,"2026-11-18T03":35,"2026-11-18T06":41,"2026-11-18T09":32,"2026-11-18T12":28,"2026-11-18T15":35,"2026-11-18T18":26,"2026-11-18T21":30,"2026-11-19T00":29,"2026-11-19T03":54,"2026-11-19T06":54,"2026-11-19T09":43,"2026-11-19T12":22,"2026-11-19T15":5,"2026-11-19T18":3,"2026-11-19T21":7,"2026-11-20T00":4,"2026-11-20T03":4,"2026-11-20T06":12,"2026-11-20T09":12,"2026-11-20T12":4,"2026-11-20T15":5,"2026-11-20T18":3,"2026-11-20T21":1,"2026-11-21T00":3,"2026-11-21T06":3,"2026-11-21T09":1,"2026-11-21T12":2,"2026-11-21T15":4,"2026-11-21T21":1,"2026-11-22T03":1,"2026-11-22T06":2,"2026-11-22T09":1,"2026-11-22T12":1,"2026-11-22T15":2,"2026-11-22T18":2,"2026-11-23T00":1,"2026-11-23T03":3,"2026-11-23T06":2,"2026-11-23T09":3,"2026-11-23T15":1,"2026-11-23T18":2,"2026-11-23T21":1,"2026-11-24T00":3,"2026-11-24T03":2},"2>1":{"2026-11-06T12":2,"2026-11-06T15":2,"2026-11-06T18":1,"2026-11-07T00":1,"2026-11-07T03":1,"2026-11-07T06":1,"2026-11-08T15":1,"2026-11-09T09":1,"2026-11-10T18":1,"2026-11-11T09":1,"2026-11-12T00":1,"2026-11-12T03":2,"2026-11-12T12":1,"2026-11-13T06":2,"2026-11-13T09":1,"2026-11-13T15":1,"2026-11-13T21":3,"2026-11-14T03":5,"2026-11-14T06":4,"2026-11-14T09":4,"2026-11-14T12":1,"2026-11-14T15":2,"2026-11-14T18":2,"2026-11-15T00":1,"2026-11-15T06":2,"2026-11-15T09":3,"2026-11-15T12":2,"2026-11-15T15":3,"2026-11-15T18":4,"2026-11-16T00":2,"2026-11-16T03":4,"2026-11-16T06":6,"2026-11-16T09":1,"2026-11-16T12":4,"2026-11-16T15":1,"2026-11-16T18":6,"2026-11-16T21":1,"2026-11-17T00":6,"2026-11-17T03":2,"2026-11-17T06":20,"2026-11-17T09":5,"2026-11-17T12":7,"2026-11-17T15":12,"2026-11-17T18":4,"2026-11-17T21":5,"2026-11-18T00":4,"2026-11-18T03":11,"2026-11-18T06":11,"2026-11-18T09":10,"2026-11-18T12":9,"2026-11-18T15":10,"2026-11-18T18":8,"2026-11-18T21":5,"2026-11-19T00":7,"2026-11-19T03":17,"2026-11-19T06":19,"2026-11-19T09":28,"2026-11-19T12":10,"2026-11-19T15":9,"2026-11-19T18":9,"2026-11-19T21":1,"2026-11-20T00":2,"2026-11-20T03":5,"2026-11-20T06":5,"2026-11-20T09":4,"2026-11-20T12":2,"2026-11-20T18":2,"2026-11-20T21":2,"2026-11-21T00":1,"2026-11-21T06":1,"2026-11-21T12":1,"2026-11-21T15":1,"2026-11-22T00":3,"2026-11-22T06":2,"2026-11-22T09":1,"2026-11-23T09":2,"2026-11-23T12":2,"2026-11-23T18":5,"2026-11-24T00":3,"2026-11-24T03":2},"3>2":{"2026-11-06T12":1,"2026-11-06T18":1,"2026-11-07T03":1,"2026-11-08T03":1,"2026-11-08T15":1,"2026-11-09T03":1,"2026-11-09T15":1,"2026-11-11T12":1,"2026-11-13T03":1,"2026-11-14T03":2,"2026-11-14T06":2,"2026-11-14T09":4,"2026-11-14T12":1,"2026-11-14T15":1,"2026-11-14T18":3,"2026-11-15T00":1,"2026-11-15T03":2,"2026-11-15T06":1,"2026-11-15T09":1,"2026-11-15T12":1,"2026-11-15T15":1,"2026-11-15T18":2,"2026-11-16T00":3,"2026-11-16T03":5,"2026-11-16T06":4,"2026-11-16T09":2,"2026-11-16T12":2,"2026-11-16T15":3,"2026-11-16T18":1,"2026-11-16T21":3,"2026-11-17T00":4,"2026-11-17T03":7,"2026-11-17T06":19,"2026-11-17T09":7,"2026-11-17T12":5,"2026-11-17T15":11,"2026-11-17T18":6,"2026-11-17T21":5,"2026-11-18T00":8,"2026-11-18T03":5,"2026-11-18T06":6,"2026-11-18T09":8,"2026-11-18T12":9,"2026-11-18T15":8,"2026-11-18T18":2,"2026-11-19T00":1,"2026-11-19T03":11,"2026-11-19T06":12,"2026-11-19T09":18,"2026-11-19T12":8,"2026-11-19T15":2,"2026-11-19T18":2,"2026-11-20T00":1,"2026-11-20T06":16,"2026-11-20T09":8,"2026-11-20T12":5,"2026-11-20T15":3,"2026-11-20T18":1,"2026-11-21T00":2,"2026-11-21T03":2,"2026-11-21T15":5,"2026-11-22T21":1,"2026-11-23T06":1,"2026-11-23T09":2,"2026-11-23T12":1,"2026-11-23T15":1,"2026-11-23T18":5,"2026-11-24T00":4,"2026-11-24T03":3},"1>4":{"2026-11-13T09":1,"2026-11-13T18":1,"2026-11-14T06":2,"2026-11-15T12":2,"2026-11-16T09":1,"2026-11-16T15":2,"2026-11-16T18":1,"2026-11-16T21":2,"2026-11-17T00":1,"2026-11-17T03":1,"2026-11-17T06":4,"2026-11-17T09":1,"2026-11-17T15":2,"2026-11-17T18":3,"2026-11-17T21":1,"2026-11-18T03":2,"2026-11-18T06":1,"2026-11-18T09":1,"2026-11-18T15":3,"2026-11-18T18":1,"2026-11-19T00":1,"2026-11-19T06":5,"2026-11-19T09":5,"2026-11-20T06":1,"2026-11-20T09":3,"2026-11-23T15":1},"4>3":{"2026-11-07T15":1,"2026-11-11T06":1,"2026-11-16T00":1,"2026-11-16T06":1,"2026-11-17T00":1,"2026-11-17T06":1,"2026-11-17T12":1,"2026-11-17T18":1,"2026-11-18T00":2,"2026-11-18T03":1,"2026-11-18T06":3,"2026-11-18T09":2,"2026-11-18T12":2,"2026-11-18T21":1,"2026-11-19T00":1,"2026-11-19T03":2,"2026-11-19T06":2,"2026-11-19T09":2,"2026-11-19T12":2,"2026-11-19T18":1,"2026-11-20T06":1,"2026-11-20T12":1,"2026-11-21T00":1,"2026-11-23T18":2,"2026-11-24T00":1},"3>1":{"2026-11-09T18":1,"2026-11-14T03":1,"2026-11-15T09":1,"2026-11-15T21":1,"2026-11-16T00":1,"2026-11-16T03":1,"2026-11-16T06":2,"2026-11-16T15":1,"2026-11-16T18":1,"2026-11-17T06":2,"2026-11-17T15":1,"2026-11-18T06":2,"2026-11-18T09":1,"2026-11-18T15":1,"2026-11-19T00":1,"2026-11-19T03":1,"2026-11-19T06":2,"2026-11-19T09":2,"2026-11-19T12":1,"2026-11-19T21":1,"2026-11-21T09":1,"2026-11-23T06":1},"4>2":{"2026-11-16T12":1,"2026-11-17T00":1,"2026-11-17T06":1,"2026-11-17T18":1,"2026-11-18T18":1,"2026-11-19T03":1,"2026-11-19T09":1,"2026-11-20T06":1,"2026-11-22T09":1,"2026-11-23T15":1},"4>1":{"2026-11-14T06":1,"2026-11-19T03":1}},
   // One row per update: papers still active with the same number of reviews, and how many moved.
   timeline: [
     {"at":"2026-11-06T13:54:47Z","sc":40458,"up":0,"down":0,"mixed":0,"withdrawn":0},
@@ -145,6 +144,7 @@ window.ICLR_DATA = {
     {"at":"2026-11-19T11:11:03Z","sc":34253,"up":12654,"down":510,"mixed":74,"withdrawn":5904,"desk":16},
     {"at":"2026-11-19T12:07:10Z","sc":34161,"up":12876,"down":522,"mixed":73,"withdrawn":5995,"desk":16},
     {"at":"2026-11-22T07:23:02Z","sc":33335,"up":13524,"down":551,"mixed":86,"withdrawn":6344,"desk":497},
-    {"at":"2026-11-23T01:15:46Z","sc":33307,"up":13569,"down":553,"mixed":89,"withdrawn":6369,"desk":498}
+    {"at":"2026-11-23T01:15:46Z","sc":33307,"up":13569,"down":553,"mixed":89,"withdrawn":6369,"desk":498},
+    {"at":"2026-11-24T04:02:14Z","sc":33242,"up":13730,"down":582,"mixed":97,"withdrawn":6436,"desk":498}
   ]
 };

diff --git a/README.md b/README.md
@@ -40,7 +40,7 @@ How much did the ICLR 2027 rebuttal move review scores? Every paper's initial re
 - **Initial scores.** The snapshot taken right after reviews were released (Nov 6, 13:54 UTC), published at [shiqiangw.github.io/iclr-2027-scores](https://shiqiangw.github.io/iclr-2027-scores/) ([repo](https://github.com/shiqiangw/iclr-2027-scores)), about a day after reviews were released.
 - **Current ratings.** The OpenReview API: every ICLR 2027 submission with its official reviews.
 - **Score changes.** A paper's scores now against its initial scores. Only papers still under review with the same number of reviews are counted.
-- **Review-level moves.** Reviews not edited since the snapshot keep their initial rating, which pins down the rest. When several reviews on one paper were edited and more than one pairing fits, edits that kept the rating count as text-only and the rest are paired by smallest change. This applies to 3,027 of 17,537 changed reviews (17%, as of Nov 23); the rest are pinned down exactly.
+- **Review-level moves.** Reviews not edited since the snapshot keep their initial rating, which pins down the rest. When several reviews on one paper were edited and more than one pairing fits, edits that kept the rating count as text-only and the rest are paired by smallest change. This applies to 3,120 of 17,845 changed reviews (17%, as of Nov 24); the rest are pinned down exactly.
 - **Privacy.** Only counts are published. No review text, reviewer ids, paper titles or author names.
 
 Made by [Jueun Kim](https://juevn.github.io/) ([@jueun_kim_](https://x.com/jueun_kim_)). Also: [NeurIPS 2026 Explorer](https://juevn.github.io/neurips2026/).
